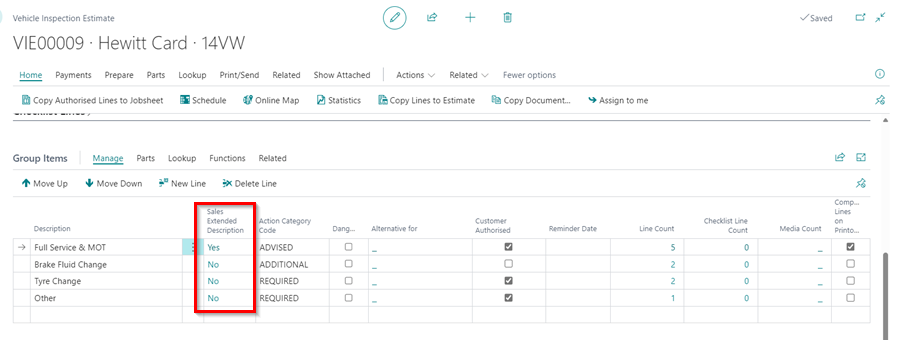
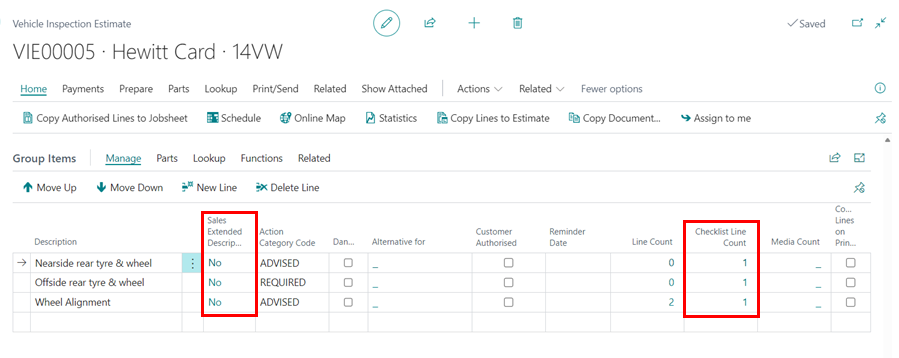
copilot

diff --git a/docs/garagehive-copilot.md b/docs/garagehive-copilot.md
@@ -15,7 +15,7 @@ We are currently reviewing this article before it is published, check back later
 
 
 ## How to Setup Copilot and AI Capabilities
-Garage Hive now integrates Copilot and AI capabilities to enhance the overall efficiency. By leveraging Microsoft's AI technologies, Garage Hive Copilot simplifies tasks by generating easy-to-understand descriptions in the VI Estimate. Users can write just a few sentences, and Copilot will generate a clearer, more understandable description. To enable the Copilot and AI Capabilities:
+Garage Hive now integrates Copilot and AI capabilities to enhance the overall efficiency. By leveraging Microsoft's AI technologies, Garage Hive Copilot simplifies tasks by generating easy-to-understand descriptions in the VI Estimate. From the selected content, Garage Hive Copilot suggests a description, which the user can then customise to their preferences. To enable the Copilot and AI Capabilities:
 1. In the top right corner, choose the ![](media/search_icon.png) icon, enter **Copilot & AI Capabilities**, and select the related link.
 
    ![](media/garagehive-copilot1.png)
@@ -33,7 +33,7 @@ Garage Hive now integrates Copilot and AI capabilities to enhance the overall ef
 
 
 ## Assign Garage Hive Copilot Entitlement
-To use the Garage Hive Copilot feature, ensure that you have assigned the GH Entitlement to your company, especially if you have two companies in your system:
+To use the Garage Hive Copilot feature, ensure that you have assigned the GH Entitlement to your company in your system:
 1. In the top right corner, choose the ![](media/search_icon.png) icon, enter **Companies**, and select the related link.
 
    ![](media/garagehive-copilot7.png)
@@ -50,18 +50,26 @@ To use the Garage Hive Copilot feature, ensure that you have assigned the GH Ent
 [Go back to top](#top)
 
 ## Using Copilot in VI Estimate Descriptions
-1. Garage Hive Copilot uses the fault descriptions available in the **Sales Extended Description** field in a VI Estimate.
-2. To use the Garage Hive Copilot, open the **VI Estimate**, scroll down to the **Lines** FastTab, and click on the **Sales Extended Description** field of the line with a description indicated as **Yes**.
+Garage Hive Copilot uses the fault descriptions available in the **Checklist Lines**. You can find the Checklist lines with descriptions under **Group Items** FastTab, in the **Checklist Lines Count** field in a VI Estimate. To use Garage Hive Copilot in a VI Estimate: 
+1. Open the **VI Estimate**, scroll down to the **Group Items** FastTab, and click on the **Sales Extended Description** field. If the **Checklist Lines Count** field has a count, Garage Hive Copilot will automatically generate a description from it.
 
    ![](media/garagehive-copilot4.png)
 
-4. You have the option to modify the description or leave it as it is, and then click on **Draft with Garage Hive Copilot**.
+2. Click the **Draft with Garage Hive Copilot** action to generate the description.
 
    ![](media/garagehive-copilot5.png)
 
-5. Garage Hive Copilot will generate a draft preview of the description. You can click on **Keep It** to add it to the **Sales Extended Description** field, **Regenerate** to generate another draft description, or **Discard it** to exit the Garage Hive Copilot window.
+3. Garage Hive Copilot will generate a draft preview of the description. You can click on **Keep It** to add it to the **Sales Extended Description** field, **Regenerate** to generate another draft description, or **Discard it** to exit the Sales Extended Description page.
 
    ![](media/garagehive-copilot6.png)
+
+4. To edit or view the **Checklist Line** prompt, click on the heading title marked with a pen icon located in the top left corner.
+
+   ![](media/garagehive-copilot10.png)
+
+5. You can now edit the **Description** or the **Text Value** fields. Once done, click **Generate** to create a new description, or click **Discard It** to exit the Edit Prompt page.
+
+   ![](media/garagehive-copilot11.png)
 
 
 [Go back to top](#top)
